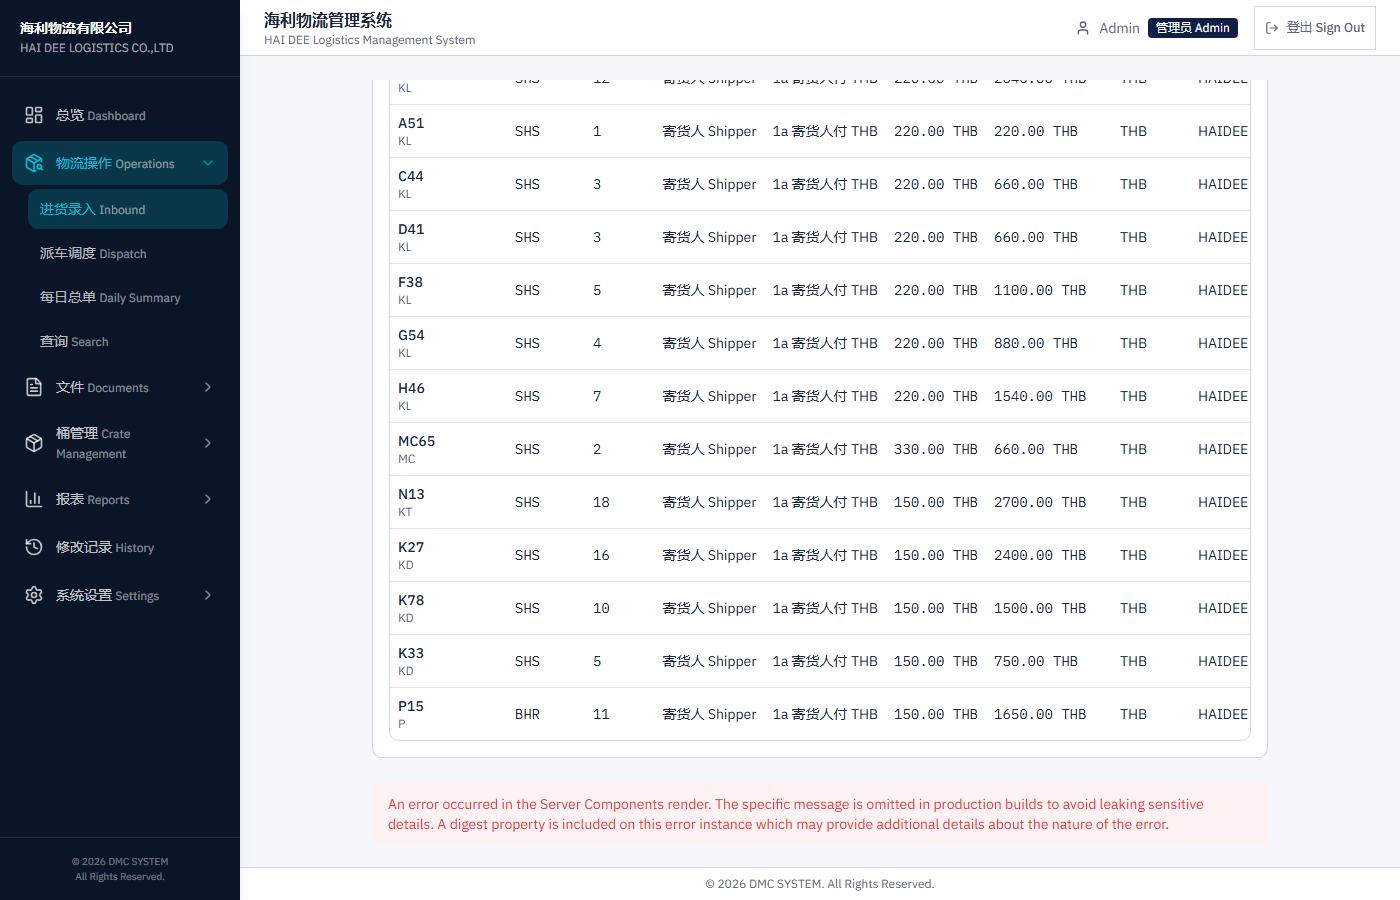
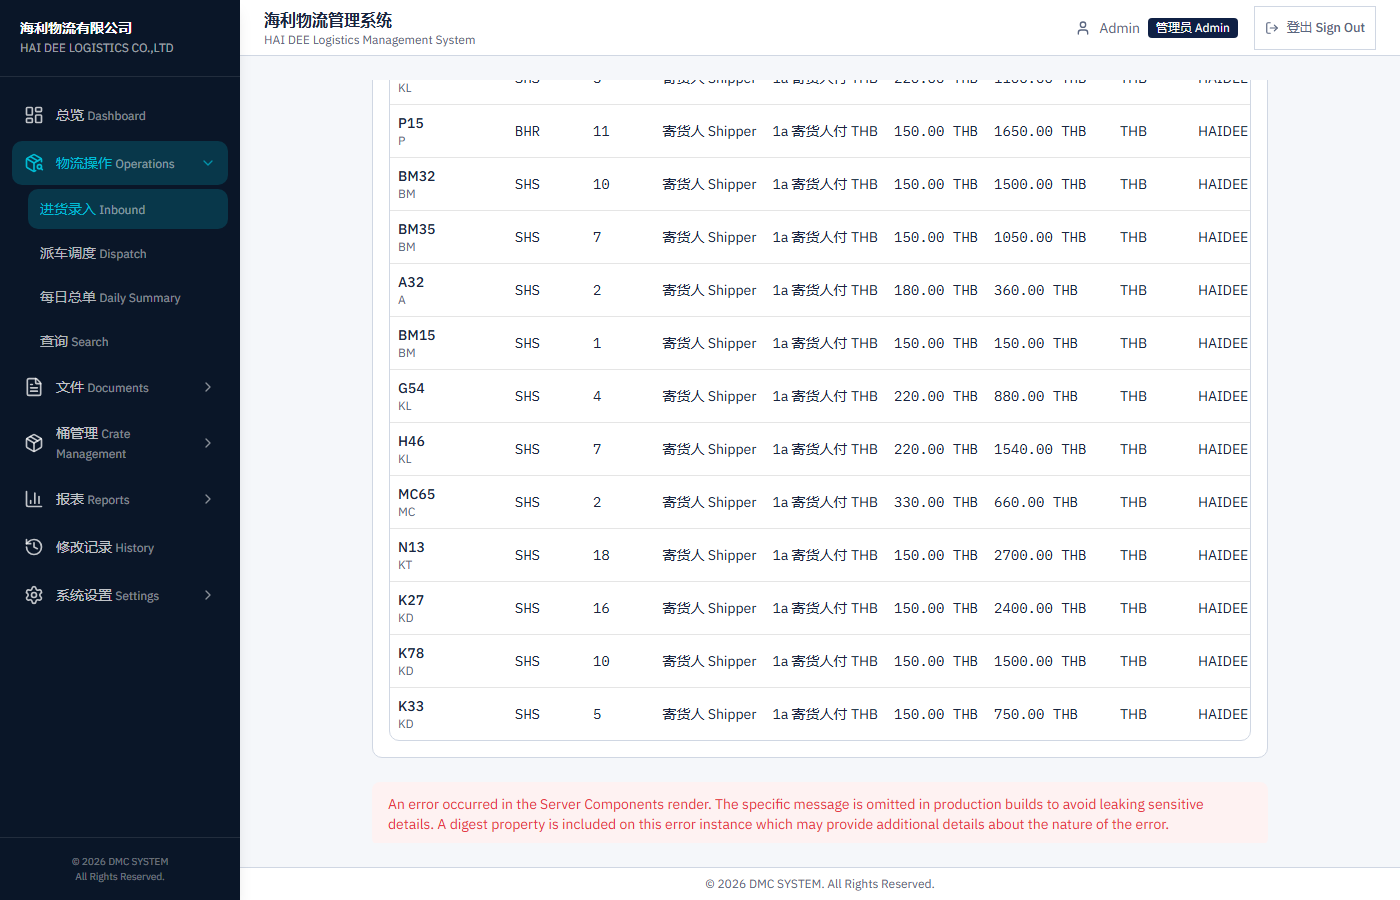
fix: avoid server redirect on inbound save for Vercel compatibility

diff --git a/components/inbound/InboundForm.tsx b/components/inbound/InboundForm.tsx
@@ -77,8 +77,6 @@ function newRowId() {
   return crypto.randomUUID();
 }
 
-import { getNextRedirectUrl } from "@/lib/next-redirect";
-
 interface MarketOption {
   id: string;
   code: string;
@@ -398,12 +396,8 @@ export function InboundForm({
           asDraft,
           sessionId: initialSession?.id,
         });
+        router.replace("/inbound");
       } catch (e) {
-        const redirectUrl = getNextRedirectUrl(e);
-        if (redirectUrl) {
-          router.replace(redirectUrl);
-          return;
-        }
         setError(e instanceof Error ? e.message : "保存失败 Save failed");
       }
     });

diff --git a/app/actions/inbound.ts b/app/actions/inbound.ts
@@ -1,7 +1,6 @@
 "use server";
 
 import { revalidatePath } from "next/cache";
-import { redirect } from "next/navigation";
 import type { Prisma } from "@prisma/client";
 import { prisma } from "@/lib/prisma";
 import { getCurrentUser } from "@/lib/auth";
@@ -1205,7 +1204,7 @@ export async function saveInboundSession(input: SaveInboundInput) {
     }
 
     revalidateInboundRelatedPaths();
-    redirect("/inbound");
+    return { ok: true as const };
   }
 
   if (status === "confirmed") {
@@ -1289,7 +1288,7 @@ export async function saveInboundSession(input: SaveInboundInput) {
   }
 
   revalidateInboundRelatedPaths();
-  redirect("/inbound");
+  return { ok: true as const };
 }
 
 export async function deleteInboundSession(sessionId: string) {